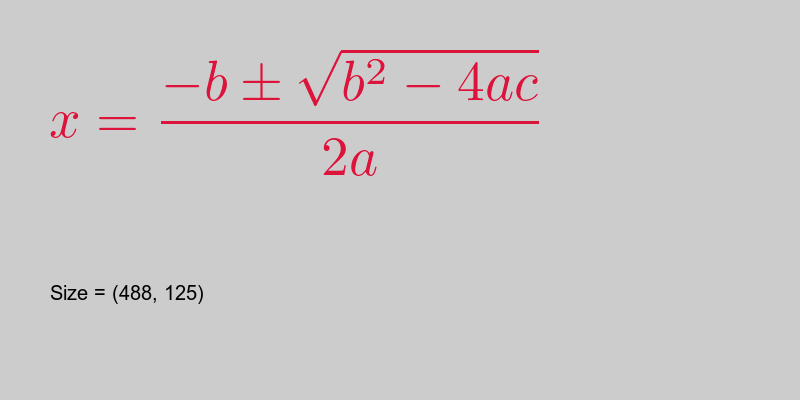
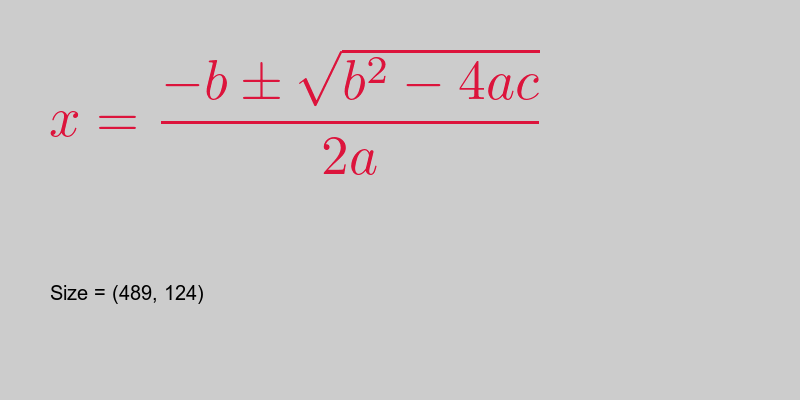
Fix formula cropping problem - use "minimal" doc class in Latex

diff --git a/generativepy/formulas.py b/generativepy/formulas.py
@@ -22,7 +22,7 @@ def _create_tex(formula, packages):
     Create tex from the formula and any optional packages.
     Return latex string
     """
-    tex_elements = [r'\documentclass[preview]{standalone}', r'\usepackage{amsmath}']
+    tex_elements = [r'\documentclass{minimal}', r'\usepackage{amsmath}']
     if packages:
         tex_elements += [r'\usepackage{' + package + '}' for package in packages]
     tex_elements += [r'\begin{document}', r'\begin{equation*}']
